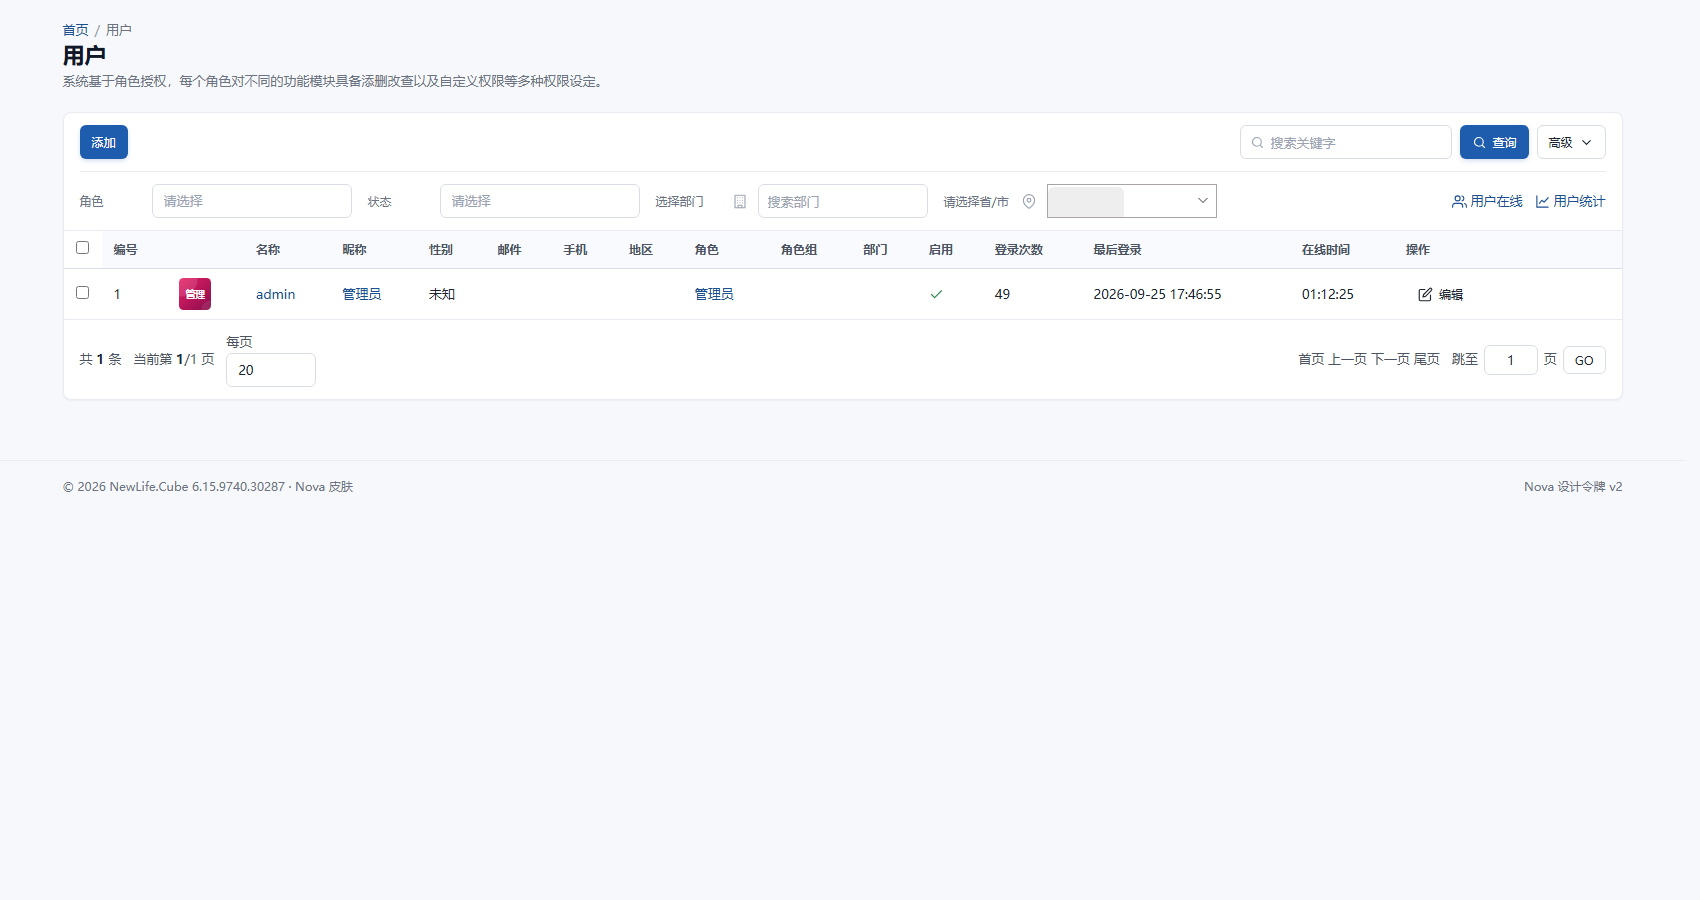
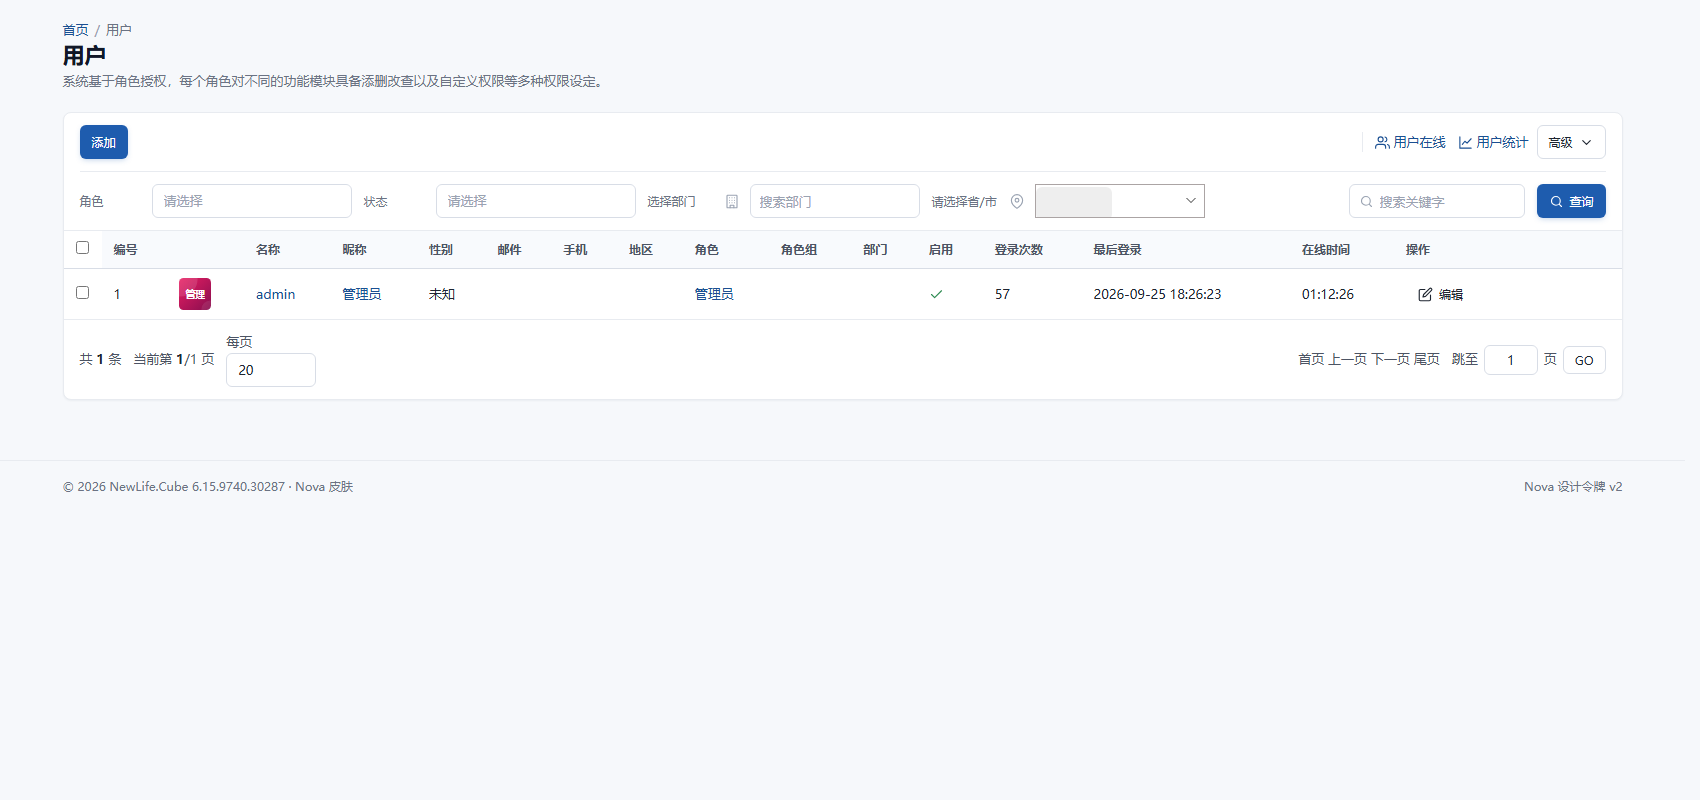
列表搜索栏排版优化：关键字+查询固定筛选行末尾
- _List_Toolbar：_List_Toolbar_Search（关键字+查询/重置）移入 .nv-toolbar-filters 行尾
- 新增 _List_Toolbar_Links 槽（Views/Nova 默认空实现 + User_Nova 覆写）：
  用户在线/用户统计等辅助入口从筛选行移至第一行右侧、高级按钮旁，
  避免字段较多时关键字+查询被挤到折行
- nova-ui.css：
  - 防隐藏选择器扩展 :not(:has(.nv-search-box))，无筛选字段页面不再藏关键字搜索
  - 筛选行横向间距收紧（sp-4→sp-3），关键字框宽 176px 保证与 4 个字段同行容纳
  - .nv-search-box 用 margin-left:auto 顶到筛选行最右，与字段底对齐
  - .nv-search-links 改左分隔线样式，适配第一行位置
- 回归：verify-demo.ps1 35 项全部 PASS

diff --git a/wwwroot/Content/nova/nova-ui.css b/wwwroot/Content/nova/nova-ui.css
@@ -1906,12 +1906,17 @@ body.nv [data-bs-theme="dark"] .nv-usermenu-name {
     display: flex;
     flex-wrap: wrap;
     align-items: flex-end;
-    gap: var(--nv-sp-3) var(--nv-sp-4);
+    gap: var(--nv-sp-3) var(--nv-sp-3);
     padding-block-start: var(--nv-sp-3);
     border-block-start: 1px solid var(--nv-border);
 }
-.nv-toolbar-filters:not(:has(.nv-field)) {
+.nv-toolbar-filters:not(:has(.nv-field)):not(:has(.nv-search-box)) {
  display: none; }
+/* 关键字搜索框在筛选行末尾：略窄于字段控件槽，保证与筛选字段同行容纳 */
+.nv-toolbar-filters .nv-search-box .nv-input {
+ width: 176px; }
+.nv-toolbar-filters > button[type="submit"], .nv-toolbar-filters > .nv-btn {
+ align-self: flex-end; }
 /* 批量操作区：与相邻控件留一点间隔，内部按钮成组 */.nv-toolbar-batch {
 
     display: inline-flex;
@@ -2305,9 +2310,13 @@ body.nv .nv-tabs-host .nav-tabs .nav-link:focus-visible {
 /* L2b. 筛选行标签定宽右对齐，标签列纵向整齐（生产排版） */
 .nv-toolbar .nv-field-label {
  flex:0 0 64px; text-align:right; }
-/* 筛选行末尾的弱强调辅助入口（用户在线/用户统计等）：右置、与字段底对齐 */
+/* 工具栏辅助链接（用户在线/用户统计等）：第一行右侧、高级按钮旁，左分隔线。
+   筛选行行尾永远留给关键字+查询（.nv-search-box 用 margin-left:auto 顶到最右）。 */
 .nv-toolbar .nv-search-links {
- display:inline-flex; align-items:center; gap:var(--nv-sp-3); margin-left:auto; align-self:center; }
+ display:inline-flex; align-items:center; gap:var(--nv-sp-3); align-self:center;
+ padding-left:var(--nv-sp-3); border-left:1px solid var(--nv-border); }
+.nv-toolbar-filters .nv-search-box {
+ margin-left:auto; }
 .nv-search-link {
  display:inline-flex; align-items:center; gap:4px; font-size:var(--nv-fs-13); color:var(--nv-text-link); text-decoration:none; }
 .nv-search-link:hover { text-decoration:underline; }
